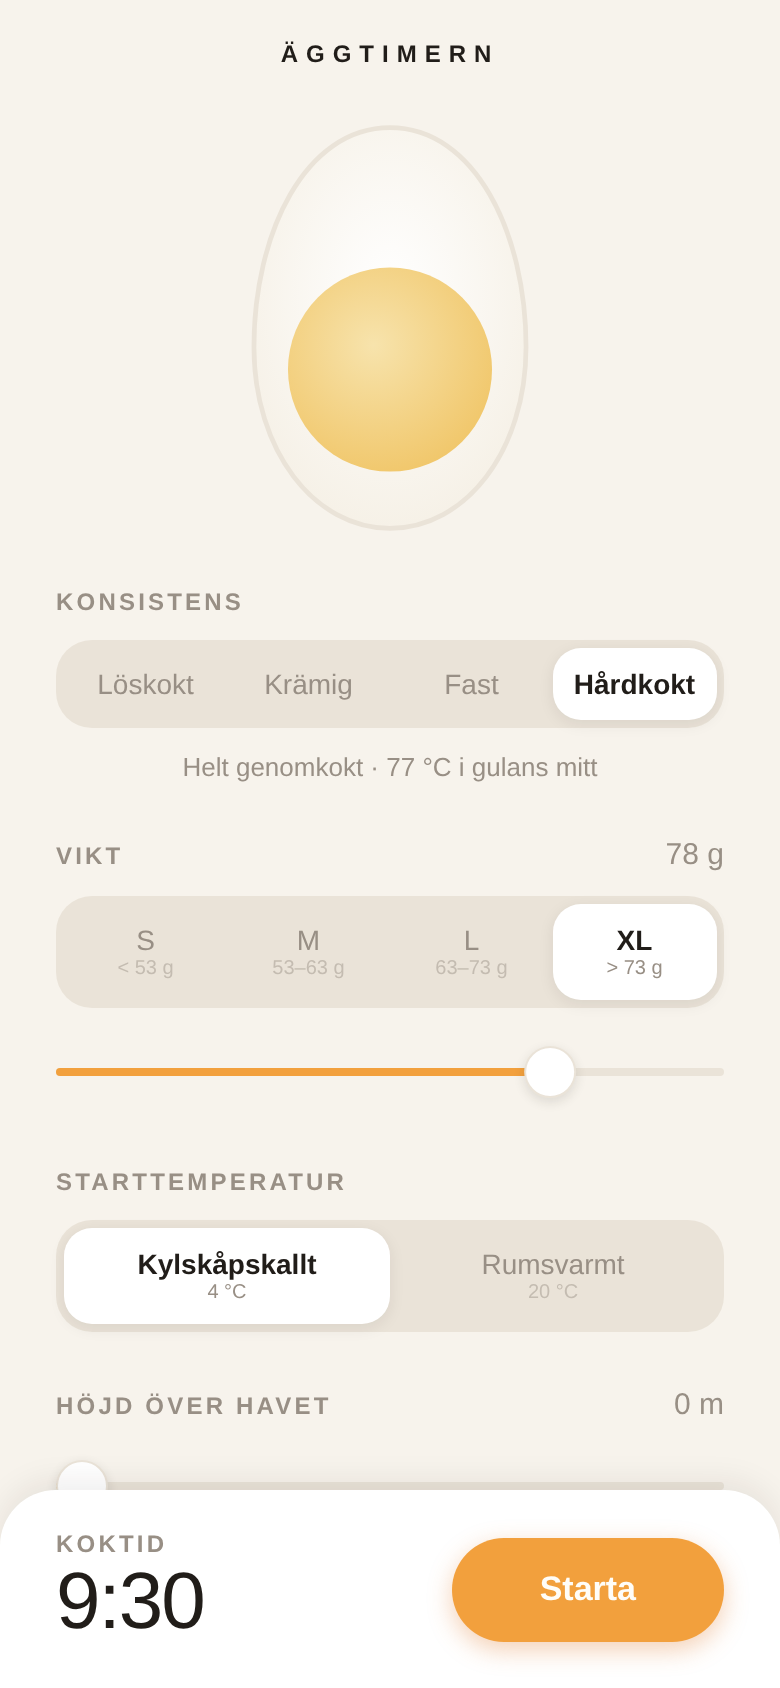
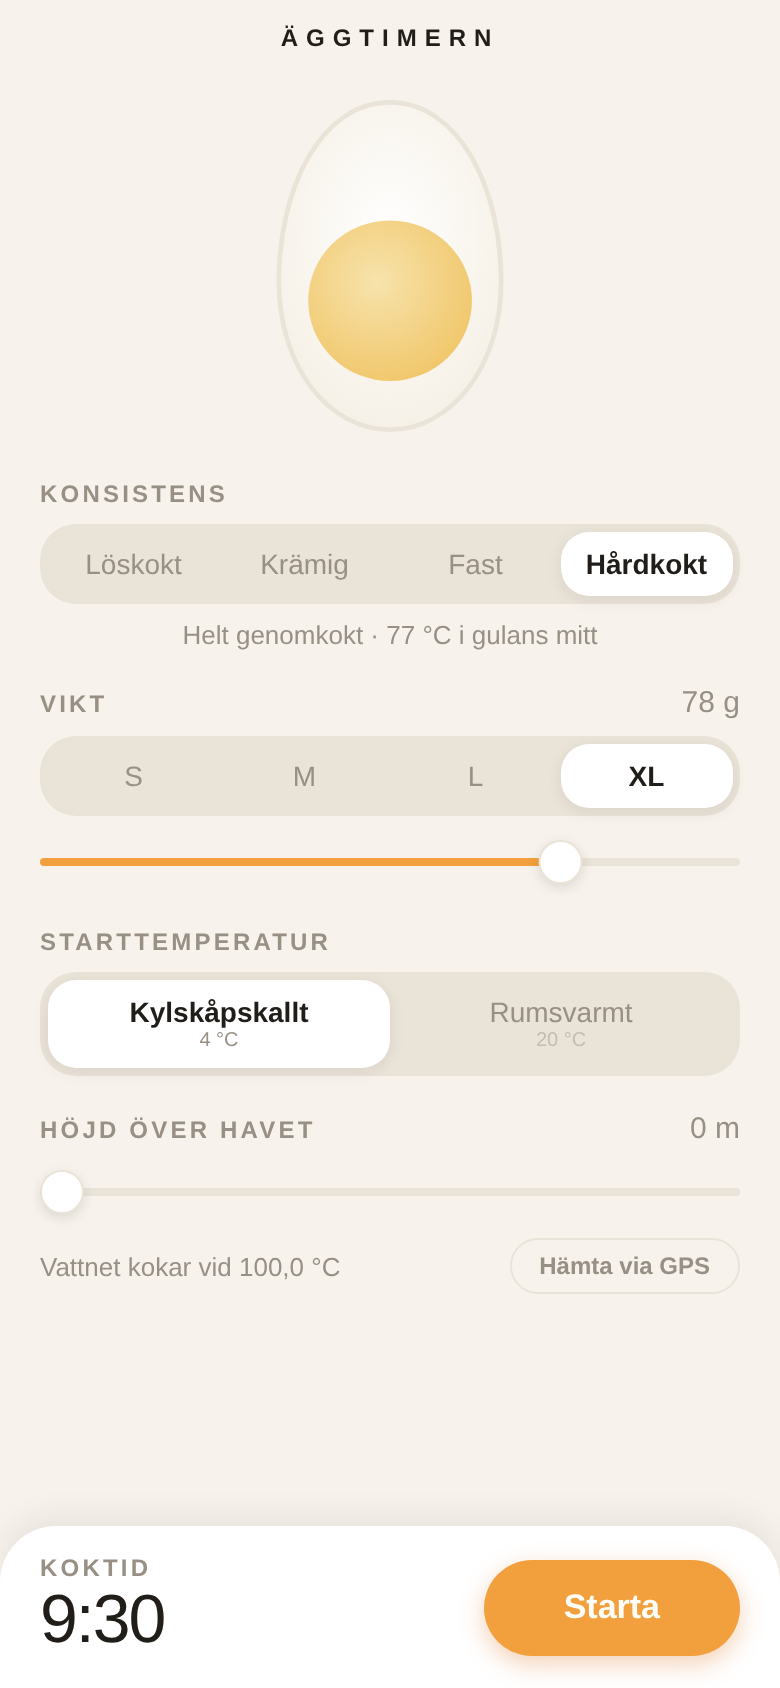
Kompaktare layout på en skärm samt tydligare gulevisualisering
Hela inställningsvyn ryms nu utan scroll på en vanlig mobilskärm:
tätare sektioner, mindre reglage och viktklasser utan undertexter.
Gulan kommunicerar nu konsistensen visuellt — en lös gula dallrar
och flyter ut av sin egen vikt, en krämig dallrar mindre, en hårdkokt
ligger blek och blickstilla.

Claude-Session: https://claude.ai/code/session_01EZYP92x6vBZfDbqiiMtHZW

diff --git a/src/components/EggVisual.tsx b/src/components/EggVisual.tsx
@@ -1,7 +1,10 @@
 import React, { useEffect } from 'react';
+import { StyleSheet, View } from 'react-native';
 import Animated, {
+  Easing,
   useAnimatedStyle,
   useSharedValue,
+  withRepeat,
   withSequence,
   withSpring,
   withTiming,
@@ -10,73 +13,131 @@ import Svg, { Circle, Defs, Ellipse, Path, RadialGradient, Stop } from 'react-na
 import { DonenessKey } from '../physics/egg';
 import { colors } from '../theme';
 
-/** Gulans utseende per fasthet: färg i mitten, färg i kanten, glans. */
-const YOLK_STYLE: Record<DonenessKey, { center: string; edge: string; shine: number }> = {
-  soft: { center: '#F58A1F', edge: '#FFC25E', shine: 0.5 },
-  creamy: { center: '#F49B2E', edge: '#FCCB6E', shine: 0.32 },
-  firm: { center: '#F5B23F', edge: '#FBD787', shine: 0.14 },
-  hard: { center: '#F0C464', edge: '#F7E3AC', shine: 0 },
+/**
+ * Gulans beteende per fasthet: färg, glans, hur mycket den dallrar
+ * (wobble) och hur mycket den sjunker ihop av sin egen vikt (sag).
+ * En lös gula är blank, dallrig och utflytande; en hårdkokt är blek,
+ * matt och ligger blickstilla.
+ */
+const YOLK: Record<
+  DonenessKey,
+  { center: string; edge: string; shine: number; wobble: number; sagX: number; sagY: number }
+> = {
+  soft: { center: '#F58A1F', edge: '#FFC25E', shine: 0.5, wobble: 0.055, sagX: 1.14, sagY: 0.88 },
+  creamy: { center: '#F49B2E', edge: '#FCCB6E', shine: 0.32, wobble: 0.032, sagX: 1.07, sagY: 0.94 },
+  firm: { center: '#F5B23F', edge: '#FBD787', shine: 0.14, wobble: 0.012, sagX: 1.02, sagY: 0.98 },
+  hard: { center: '#F0C464', edge: '#F7E3AC', shine: 0, wobble: 0, sagX: 1, sagY: 1 },
 };
 
 export const EGG_PATH =
   'M100 14 C145 14 172 70 172 130 C172 185 140 226 100 226 C60 226 28 185 28 130 C28 70 55 14 100 14 Z';
+
+// Äggets ritstorlek och gulans läge i samma skala.
+const W = 152;
+const H = 182;
+const SCALE = W / 200;
+const YOLK_R = 54 * SCALE;
+const YOLK_CX = 100 * SCALE;
+const YOLK_CY = 142 * SCALE;
+const YOLK_BOX = YOLK_R * 2 + 16;
 
 interface Props {
   doneness: DonenessKey;
   grams: number;
 }
 
-/** Tvärsnitt av ett ägg — gulan speglar vald fasthet, storleken vikten. */
+/** Tvärsnitt av ett ägg — gulan dallrar efter vald fasthet, storleken följer vikten. */
 export function EggVisual({ doneness, grams }: Props) {
-  const style = YOLK_STYLE[doneness];
+  const look = YOLK[doneness];
   // 40–90 g mappas till 86–108 % storlek.
   const sizeScale = 0.86 + ((grams - 40) / 50) * 0.22;
-
-  const pop = useSharedValue(1);
-  useEffect(() => {
-    pop.value = withSequence(
-      withTiming(0.94, { duration: 90 }),
-      withSpring(1, { damping: 9, stiffness: 240 })
-    );
-  }, [doneness, pop]);
 
   const scale = useSharedValue(sizeScale);
   useEffect(() => {
     scale.value = withSpring(sizeScale, { damping: 14, stiffness: 180 });
   }, [sizeScale, scale]);
 
+  // Evig dallervåg −1…1; amplituden styrs av fastheten.
+  const wob = useSharedValue(0);
+  useEffect(() => {
+    wob.value = withRepeat(
+      withSequence(
+        withTiming(1, { duration: 620, easing: Easing.inOut(Easing.sin) }),
+        withTiming(-1, { duration: 620, easing: Easing.inOut(Easing.sin) })
+      ),
+      -1,
+      true
+    );
+  }, [wob]);
+
+  const amp = useSharedValue(look.wobble);
+  const sagX = useSharedValue(look.sagX);
+  const sagY = useSharedValue(look.sagY);
+  const pop = useSharedValue(1);
+  useEffect(() => {
+    amp.value = withTiming(look.wobble, { duration: 400 });
+    sagX.value = withSpring(look.sagX, { damping: 11, stiffness: 160 });
+    sagY.value = withSpring(look.sagY, { damping: 11, stiffness: 160 });
+    pop.value = withSequence(
+      withTiming(0.92, { duration: 90 }),
+      withSpring(1, { damping: 9, stiffness: 240 })
+    );
+  }, [doneness, amp, sagX, sagY, pop, look]);
+
   const outer = useAnimatedStyle(() => ({ transform: [{ scale: scale.value }] }));
-  const yolkPop = useAnimatedStyle(() => ({ transform: [{ scale: pop.value }] }));
+  const yolkStyle = useAnimatedStyle(() => ({
+    transform: [
+      { scale: pop.value },
+      { scaleX: sagX.value * (1 + amp.value * wob.value) },
+      { scaleY: sagY.value * (1 - amp.value * wob.value) },
+    ],
+  }));
 
   return (
     <Animated.View style={outer}>
-      <Animated.View style={yolkPop}>
-        <Svg width={190} height={228} viewBox="0 0 200 240">
+      <View style={{ width: W, height: H }}>
+        <Svg width={W} height={H} viewBox="0 0 200 240">
           <Defs>
-            <RadialGradient id="yolk" cx="42%" cy="38%" r="72%">
-              <Stop offset="0%" stopColor={style.edge} />
-              <Stop offset="100%" stopColor={style.center} />
-            </RadialGradient>
-            <RadialGradient id="white" cx="50%" cy="42%" r="70%">
+            <RadialGradient id="eggwhite" cx="50%" cy="42%" r="70%">
               <Stop offset="0%" stopColor="#FFFFFF" />
               <Stop offset="100%" stopColor="#F4EEE2" />
             </RadialGradient>
           </Defs>
-          <Path d={EGG_PATH} fill="url(#white)" stroke={colors.line} strokeWidth={2.5} />
-          <Circle cx={100} cy={142} r={54} fill="url(#yolk)" />
-          {style.shine > 0 && (
-            <Ellipse
-              cx={82}
-              cy={122}
-              rx={20}
-              ry={13}
-              fill="#FFFFFF"
-              opacity={style.shine}
-              transform="rotate(-24 82 122)"
-            />
-          )}
+          <Path d={EGG_PATH} fill="url(#eggwhite)" stroke={colors.line} strokeWidth={3} />
         </Svg>
-      </Animated.View>
+        <Animated.View style={[styles.yolk, yolkStyle]}>
+          <Svg width={YOLK_BOX} height={YOLK_BOX} viewBox={`0 0 ${YOLK_BOX} ${YOLK_BOX}`}>
+            <Defs>
+              <RadialGradient id="yolkfill" cx="42%" cy="38%" r="72%">
+                <Stop offset="0%" stopColor={look.edge} />
+                <Stop offset="100%" stopColor={look.center} />
+              </RadialGradient>
+            </Defs>
+            <Circle cx={YOLK_BOX / 2} cy={YOLK_BOX / 2} r={YOLK_R} fill="url(#yolkfill)" />
+            {look.shine > 0 && (
+              <Ellipse
+                cx={YOLK_BOX / 2 - 12}
+                cy={YOLK_BOX / 2 - 14}
+                rx={13}
+                ry={8}
+                fill="#FFFFFF"
+                opacity={look.shine}
+                transform={`rotate(-24 ${YOLK_BOX / 2 - 12} ${YOLK_BOX / 2 - 14})`}
+              />
+            )}
+          </Svg>
+        </Animated.View>
+      </View>
     </Animated.View>
   );
 }
+
+const styles = StyleSheet.create({
+  yolk: {
+    position: 'absolute',
+    left: YOLK_CX - YOLK_BOX / 2,
+    top: YOLK_CY - YOLK_BOX / 2,
+    width: YOLK_BOX,
+    height: YOLK_BOX,
+  },
+});

diff --git a/App.tsx b/App.tsx
@@ -116,7 +116,7 @@ export default function App() {
             <Text style={styles.value}>{grams} g</Text>
           </View>
           <Segmented
-            options={SIZES.map((s) => ({ key: s.key, label: s.label, sub: s.range }))}
+            options={SIZES.map((s) => ({ key: s.key, label: s.label }))}
             value={sizeKey ?? ('' as SizeKey)}
             onChange={(k) => setGrams(SIZES.find((s) => s.key === k)!.grams)}
           />
@@ -186,10 +186,10 @@ export default function App() {
 const styles = StyleSheet.create({
   safe: { flex: 1, backgroundColor: colors.bg },
   scroll: {
-    padding: space.l,
-    paddingTop: Platform.OS === 'android' ? space.xl + 12 : space.m,
-    paddingBottom: 120,
-    gap: space.l,
+    paddingHorizontal: space.m,
+    paddingTop: Platform.OS === 'android' ? space.xl : space.s,
+    paddingBottom: 104,
+    gap: 18,
     maxWidth: 560,
     width: '100%',
     alignSelf: 'center',
@@ -200,8 +200,8 @@ const styles = StyleSheet.create({
     color: colors.ink,
     letterSpacing: 4,
   },
-  eggWrap: { alignItems: 'center', marginVertical: -space.s },
-  section: { gap: space.s },
+  eggWrap: { alignItems: 'center', marginVertical: -2 },
+  section: { gap: 8 },
   rowBetween: { flexDirection: 'row', justifyContent: 'space-between', alignItems: 'center' },
   hint: { ...font.caption, textAlign: 'center' },
   value: { ...font.body, fontVariant: ['tabular-nums'], color: colors.inkSoft },
@@ -224,9 +224,9 @@ const styles = StyleSheet.create({
     flexDirection: 'row',
     alignItems: 'center',
     justifyContent: 'space-between',
-    paddingHorizontal: space.l,
-    paddingVertical: space.m,
-    paddingBottom: Platform.OS === 'ios' ? space.l + 8 : space.m,
+    paddingHorizontal: space.m,
+    paddingVertical: space.s + 2,
+    paddingBottom: Platform.OS === 'ios' ? space.l : space.s + 2,
     backgroundColor: colors.card,
     borderTopLeftRadius: radius.l,
     borderTopRightRadius: radius.l,
@@ -240,7 +240,7 @@ const styles = StyleSheet.create({
     alignSelf: 'center',
   },
   footerTime: {
-    fontSize: 40,
+    fontSize: 34,
     fontWeight: '200',
     letterSpacing: -1,
     color: colors.ink,
@@ -249,8 +249,8 @@ const styles = StyleSheet.create({
   startButton: {
     backgroundColor: colors.yolk,
     borderRadius: radius.pill,
-    paddingVertical: 16,
-    paddingHorizontal: 44,
+    paddingVertical: 14,
+    paddingHorizontal: 40,
     shadowColor: colors.yolkDeep,
     shadowOpacity: 0.35,
     shadowRadius: 12,

diff --git a/src/components/Slider.tsx b/src/components/Slider.tsx
@@ -10,7 +10,7 @@ interface Props {
   onChange: (value: number) => void;
 }
 
-const KNOB = 26;
+const KNOB = 22;
 
 /** Minimal slider byggd på PanResponder — fungerar på iOS, Android och webb. */
 export function Slider({ min, max, step, value, onChange }: Props) {
@@ -57,7 +57,7 @@ export function Slider({ min, max, step, value, onChange }: Props) {
 }
 
 const styles = StyleSheet.create({
-  container: { height: 40, justifyContent: 'center' },
+  container: { height: 30, justifyContent: 'center' },
   track: {
     position: 'absolute',
     left: 0,

diff --git a/src/components/Segmented.tsx b/src/components/Segmented.tsx
@@ -72,7 +72,7 @@ const styles = StyleSheet.create({
     flex: 1,
     alignItems: 'center',
     justifyContent: 'center',
-    paddingVertical: 10,
+    paddingVertical: 8,
     gap: 1,
   },
   label: { fontSize: 14, fontWeight: '500', color: colors.inkSoft },
